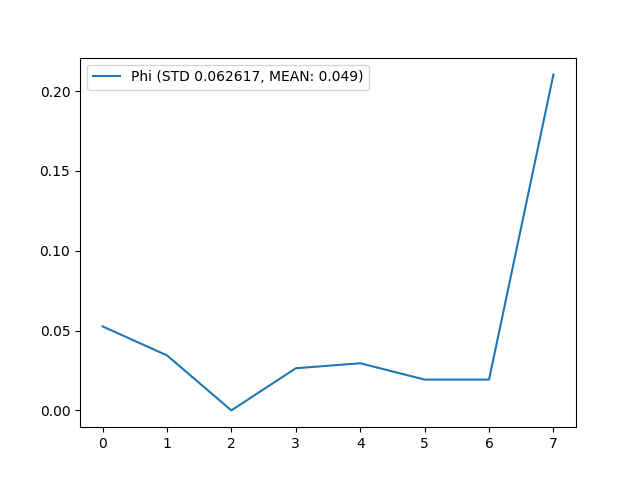
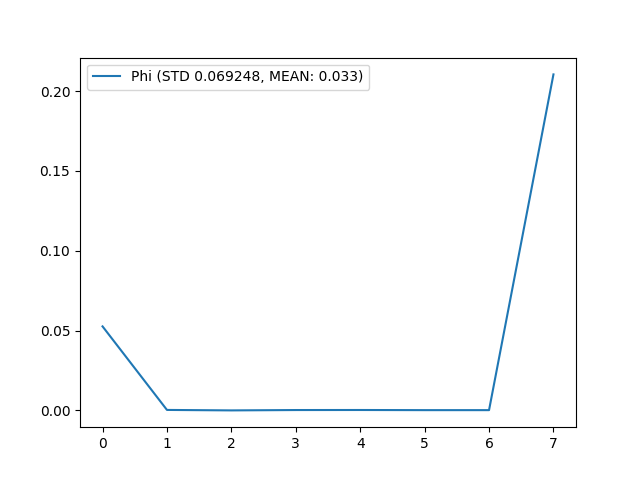
Parse input args

diff --git a/src/main.py b/src/main.py
@@ -1,3 +1,4 @@
+import argparse
 from binner import *
 from build_hash import *
 import csv
@@ -313,18 +314,34 @@ def run_phi():
 #    plt.savefig("image_results/window" + str(conf.int_len) + "_noOfBins" + str(conf.num_of_bins) + ".png")
 #    plt.clf()
 
-phi_vals = run_phi()
-phi_mean = np.mean(np.array(phi_vals))
-phi_sd = np.std(np.array(phi_vals))
-info_string = "Phi (STD %2.6f, MEAN: %1.3f)" % (phi_sd, phi_mean)
-#Plot the phi values
-plt.plot(phi_vals, label = info_string)
-plt.legend()
-plt.show(block = False)
-plt.savefig("image_results/window" + str(conf.int_len) + "_noOfBins" + str(conf.num_of_bins) + ".png")
-plt.clf()
-
 #with open("/Users/moikle_admin/Research/SingularityNET/Python/Phi Pipeline/phi_vals.py" , "wb") as f:
 #    pickle.dump(phi_vals, f)
 #with open("/Users/moikle_admin/Research/SingularityNET/Python/Phi Pipeline/num_of_nodes.py" , "wb") as f:
 #    pickle.dump(conf.num_of_nodes, f)
+
+def run():
+    parser = argparse.ArgumentParser(
+        "Takes as input a time series of values (importance or excitation values for example) and returns a time series of estimated Tononi Phi values.", 
+        formatter_class=argparse.ArgumentDefaultsHelpFormatter
+    )
+
+    parser.add_argument('--output-file', type=str, default="output.png", help='The name of a PNG file where output will be written.')
+
+    args = parser.parse_args()
+
+    output_file_name = args.output_file
+
+    phi_vals = run_phi()
+    phi_mean = np.mean(np.array(phi_vals))
+    phi_sd = np.std(np.array(phi_vals))
+    info_string = "Phi (STD %2.6f, MEAN: %1.3f)" % (phi_sd, phi_mean)
+    #Plot the phi values
+    plt.plot(phi_vals, label = info_string)
+    plt.legend()
+    plt.show(block = False)
+    #plt.savefig("image_results/window" + str(conf.int_len) + "_noOfBins" + str(conf.num_of_bins) + ".png")
+    plt.savefig(output_file_name)
+    plt.clf()
+
+if __name__ == "__main__":
+    run()

diff --git a/src/nodes_conf.py b/src/nodes_conf.py
@@ -1,1 +1,1 @@
-num_of_nodes = 3
+num_of_nodes = 10
